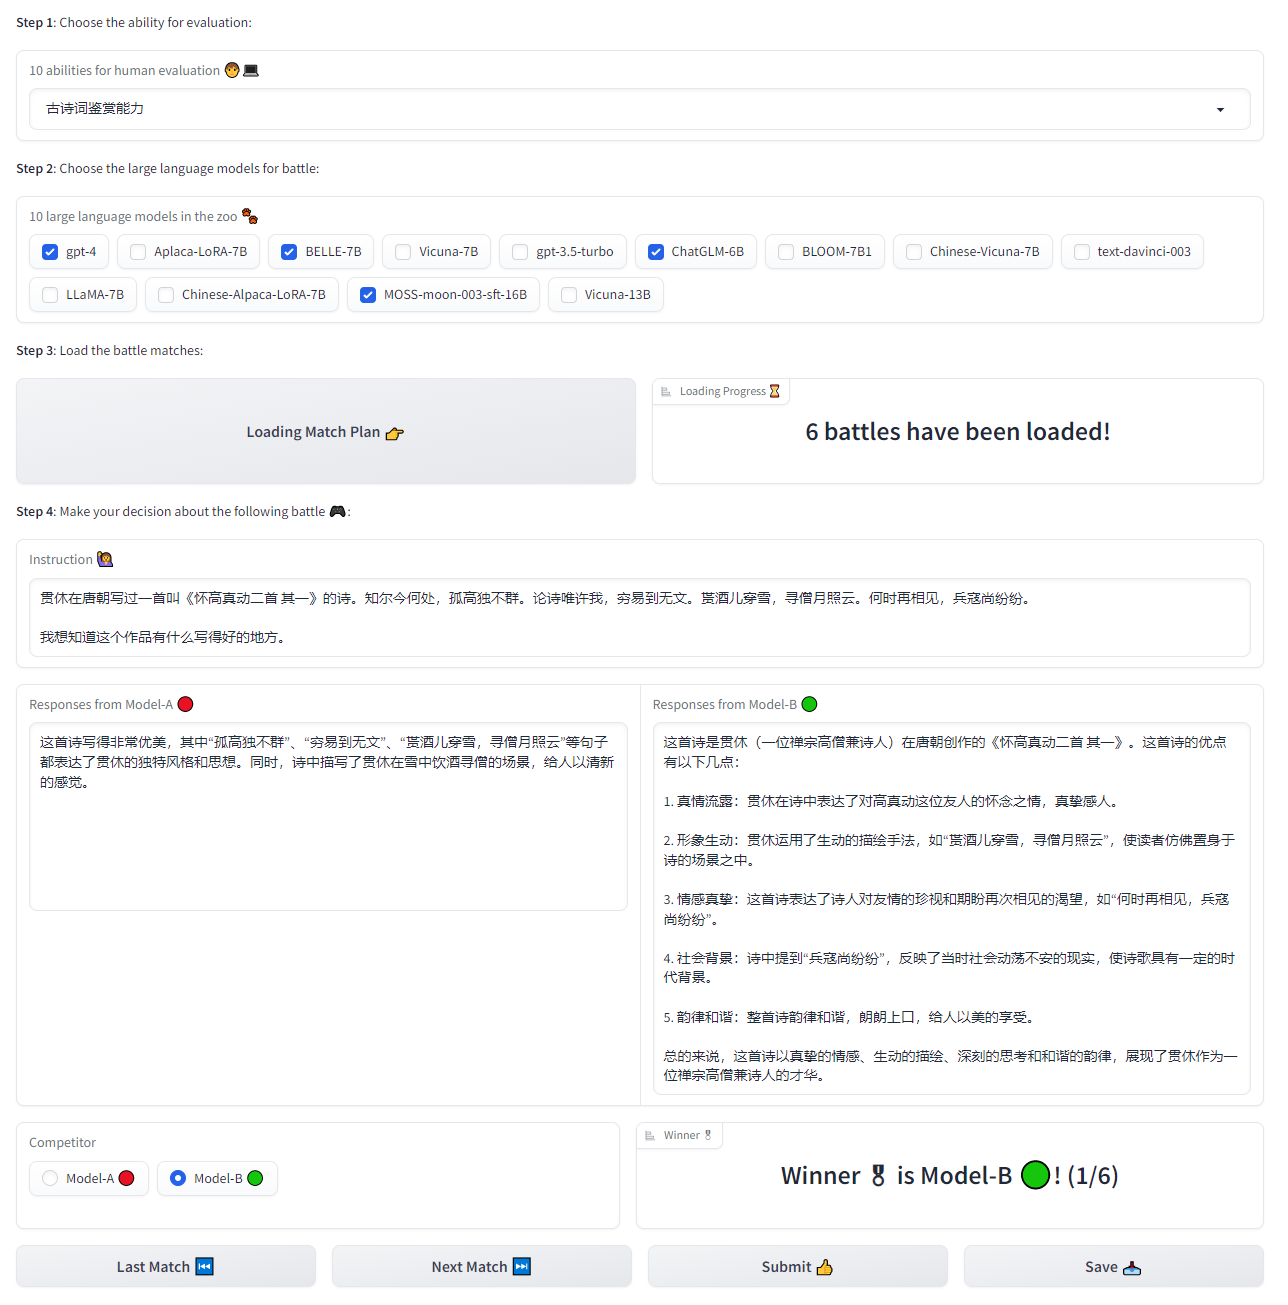
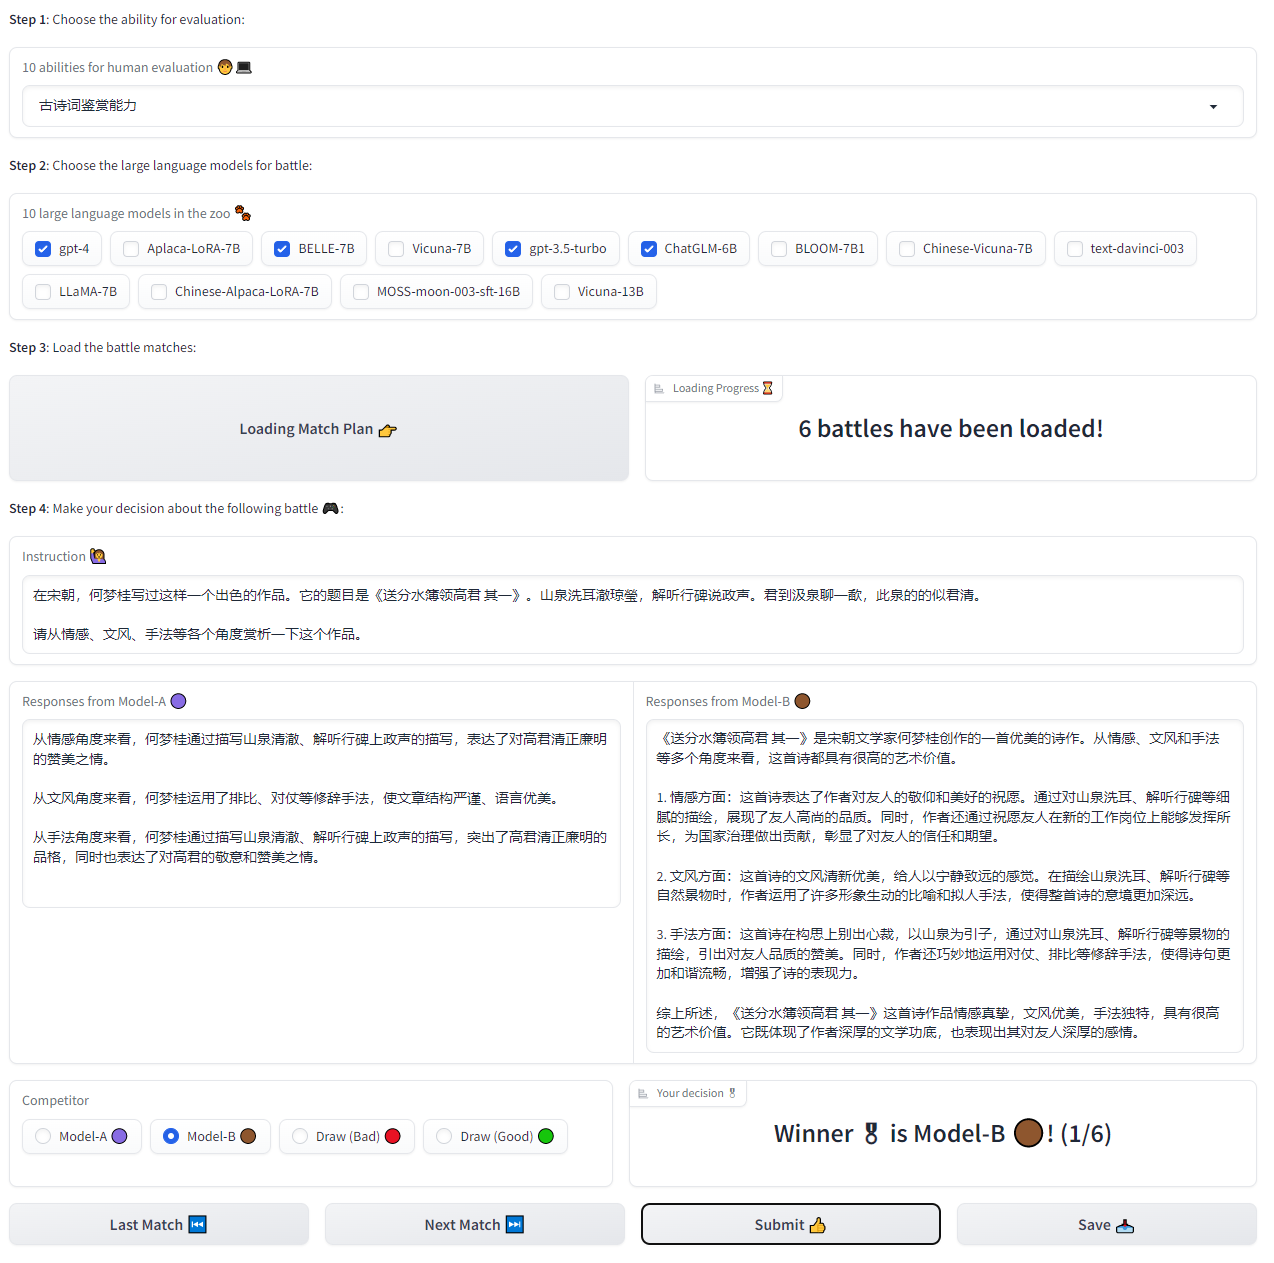
update webui

diff --git a/webui/arena.py b/webui/arena.py
@@ -20,11 +20,17 @@ class ArenaPlan():
                  inference_path: str='copywriting/data', 
                  dump_save_path: str='copywriting/analysis/arena', 
                  dump_recovery_path: str='copywriting/analysis/arena'):
-        self.matches = sample_trueskill(match_plan, ability, sample_num, inference_path, dump_save_path, dump_recovery_path)
+        self.matches = sample_trueskill(match_plan, 
+                                        ability, 
+                                        sample_num, 
+                                        inference_path, 
+                                        dump_save_path, 
+                                        dump_recovery_path)
         self.match_cnt = len(self.matches)
         self.annotating_head = 0
         self.show_head = 0
-        self.annotated_matches = []
+        self.annotated_matches = dict()
+        self.annotated_names = list()
         self.dump_save_path = dump_save_path
         self.ability = ability
 
@@ -37,13 +43,14 @@ class ArenaPlan():
             return game_name, instruct, model_a, model_b, None
         
     def _show_annotated_match(self, match_id: int):
-        match = self.annotated_matches[match_id]
-        for game_name, match_content in match.items():
-            instruct = match_content['instruction']
-            model_a = match_content['model-a']
-            model_b = match_content['model-b']
-            winner = match_content['winner']
-            return game_name, instruct, model_a, model_b, winner
+        game_name = self.annotated_names[match_id]
+        match = self.annotated_matches[game_name]
+
+        instruct = match['instruction']
+        model_a = match['model-a']
+        model_b = match['model-b']
+        winner = match['winner']
+        return game_name, instruct, model_a, model_b, winner
         
     def show_match(self, match_id: int =0):
         match_id = max(0, match_id)
@@ -67,11 +74,14 @@ class ArenaPlan():
         return self.show_match(self.show_head)
     
     def progress(self):
-        return f'{self.annotating_head}/{self.match_cnt}'
+        return f'{self.show_head+1}/{self.match_cnt}'
     
     def submit_match(self, match_result: dict):
         game_name = list(self.matches[self.show_head].keys())[0]
-        self.annotated_matches.append({game_name: match_result})
+        if game_name not in self.annotated_matches:
+            self.annotated_names.append(game_name)
+        self.annotated_matches[game_name] = match_result
+
         if self.show_head == self.annotating_head:
             self.annotating_head += 1
     
@@ -102,13 +112,13 @@ def submit(instruct, model_a, model_b, winner):
 
 def next_match():
     global arena_plan
-    game_name, instruct, model_a, model_b, winner = arena_plan.next_match()
-    return instruct, model_a, model_b, winner
+    _, instruct, model_a, model_b, winner = arena_plan.next_match()
+    return instruct, model_a, model_b, winner, _annotation_result(winner)
 
 def last_match():
     global arena_plan
-    game_name, instruct, model_a, model_b, winner = arena_plan.last_match()
-    return instruct, model_a, model_b, winner
+    _, instruct, model_a, model_b, winner = arena_plan.last_match()
+    return instruct, model_a, model_b, winner, _annotation_result(winner)
 
 def load_match(ability, llms):
     global arena_plan
@@ -120,13 +130,27 @@ def load_match(ability, llms):
     match_plan = full_combination_strategy(llms)
     print(match_plan)
     arena_plan = ArenaPlan(match_plan, ability_zh_en_map[ability])
-    game_name, instruct, model_a, model_b, winner = arena_plan.show_match()
+    _, instruct, model_a, model_b, winner = arena_plan.show_match()
 
-    return f'{len(match_plan)} battles have been loaded!', instruct, model_a, model_b, winner
+    return f'{len(match_plan)} battles have been loaded!', instruct, model_a, model_b, winner, _annotation_result(winner)
 
 def save_result():
     global arena_plan
     arena_plan.save_matches()
+
+def _annotation_result(winner):
+    global arena_plan
+    if winner:
+        if winner in ['Model-A 🟣', 'Model-B 🟤']:
+            return f'Winner 🎖 is {winner}! \n ({arena_plan.progress()})'
+        else:
+            if 'Bad' in winner:
+                performance = 'bad'
+            else:
+                performance = 'excellent'
+            return f'Their performance is {performance}! \n ({arena_plan.progress()})'
+    else:
+        return f'Make your decision! \n ({arena_plan.progress()})'
 
 def arena_two_model():
     with gr.Blocks(title=emoji.emojize('Arena :crossed_swords:')) as demo:
@@ -146,12 +170,12 @@ def arena_two_model():
         gr.Markdown('**Step 4**: Make your decision about the following battle 🎮:')
         instruction = gr.Textbox(label=emoji.emojize('Instruction :person_raising_hand:'))
         with gr.Row():
-            response_a = gr.Textbox(label='Responses from Model-A 🔴', lines=8)
-            response_b = gr.Textbox(label='Responses from Model-B 🟢', lines=8)
+            response_a = gr.Textbox(label='Responses from Model-A 🟣', lines=8)
+            response_b = gr.Textbox(label='Responses from Model-B 🟤', lines=8)
 
         with gr.Row():
-            radio = gr.Radio(['Model-A 🔴', 'Model-B 🟢'], label='Competitor')
-            result = gr.Label(label='Winner 🎖')
+            radio = gr.Radio(['Model-A 🟣', 'Model-B 🟤', 'Draw (Bad) 🔴', 'Draw (Good) 🟢'], label='Competitor')
+            result = gr.Label(label='Your decision 🎖')
 
         with gr.Row():
             last_btn = gr.Button(emoji.emojize('Last Match :last_track_button:'))
@@ -166,17 +190,17 @@ def arena_two_model():
         
         next_btn.click(fn=next_match, 
                        inputs=None, 
-                       outputs=[instruction, response_a, response_b, radio], 
+                       outputs=[instruction, response_a, response_b, radio, result], 
                        api_name='next')
         
         last_btn.click(fn=last_match, 
                        inputs=None, 
-                       outputs=[instruction, response_a, response_b, radio], 
+                       outputs=[instruction, response_a, response_b, radio, result], 
                        api_name='last')
         
         match_plan_btn.click(fn=load_match, 
                        inputs=[human_eval_abi, llm_pool], 
-                       outputs=[plan_progress, instruction, response_a, response_b, radio], 
+                       outputs=[plan_progress, instruction, response_a, response_b, radio, result], 
                        api_name='match_plan')
         
         save_btn.click(fn=save_result, 

diff --git a/plots/plot_annotation.py b/plots/plot_annotation.py
@@ -79,12 +79,12 @@ colors = list(map(lambda x: color(tuple(x)), ncolors(len(api_name_map))))
 api_color_map = dict(zip(list(api_name_map.values()), colors))
 
 llm_type_map = {
-    'LLaMA': ['Aplaca-LoRA-7B', 'Chinese-Alpaca-LoRA-7B', 'Chinese-Vicuna-7B', 'LLaMA-7B', 'Vicuna-7B', 'Vicuna-13B'],
-    'BLOOM': ['BELLE-7B', 'BLOOM-7B1'],
+    'LLaMA家族': ['Aplaca-LoRA-7B', 'Chinese-Alpaca-LoRA-7B', 'Chinese-Vicuna-7B', 'LLaMA-7B', 'Vicuna-7B', 'Vicuna-13B'],
+    'BLOOM家族': ['BELLE-7B', 'BLOOM-7B1'],
     'ChatGLM': ['ChatGLM-6B'],
     'CodeGen': ['MOSS-moon-003-sft-16B'],
-    'GPT': ['text-davinci-003', 'gpt-3.5-turbo', 'gpt-4'],
-    'Select': ['MOSS-moon-003-sft-16B', 'Vicuna-13B', 'BELLE-7B', 'ChatGLM-6B', 'gpt-4'],
+    'GPT家族': ['text-davinci-003', 'gpt-3.5-turbo', 'gpt-4'],
+    '代表模型': ['MOSS-moon-003-sft-16B', 'Vicuna-13B', 'BELLE-7B', 'ChatGLM-6B', 'gpt-4'],
     'RankRep': ['gpt-4', 'ChatGLM-6B', 'Vicuna-13B', 'Aplaca-LoRA-7B']
 }
 
@@ -361,8 +361,7 @@ def plot_ability_radar(annotated_file: str, save_fig_path: str, radar_name: str)
         plt.fill(angles, data, facecolor=api_color_map[api_name], alpha=0.02)
 
     ## show title
-    # plt.figtext(0.515, 0.95, attr, ha='center')
-    # plt.figtext(0.515, 0.95, 'Human Evaluation', ha='center')
+    plt.figtext(0.515, 0.95, radar_name, ha='center')
 
     plt.legend(loc='upper right', prop={'size': 7, 'family': 'DejaVu Sans'}, bbox_to_anchor=(1.3, 0.1))
     plt.grid(True)

diff --git a/copywriting/data_process.py b/copywriting/data_process.py
@@ -3,6 +3,7 @@ import json
 import pandas as pd
 from collections import OrderedDict
 from copywriting import get_logger
+from llm_api import api_name_map
 
 logger = get_logger(__name__, 'INFO')
 
@@ -43,22 +44,6 @@ def process_default_task(data_file: str) -> list:
         json.dump(poetry_instruction, fw, indent=4, ensure_ascii=False)
     
     return poetry_instruction
-
-api_name_map = {
-    'alpaca': 'Aplaca-LoRA-7B',
-    'belle': 'BELLE-7B',
-    'bloom': 'BLOOM-7B1',
-    'chatglm': 'ChatGLM-6B',
-    'chinese-alpaca': 'Chinese-Alpaca-LoRA-7B',
-    'chinese-vicuna': 'Chinese-Vicuna-7B',
-    'davinci': 'text-davinci-003',
-    'llama': 'LLaMA-7B',
-    'moss': 'MOSS-moon-003-sft-16B',
-    'turbo': 'gpt-3.5-turbo',
-    'vicuna': 'Vicuna-7B',
-    'vicuna-13b': 'Vicuna-13B',
-    'gpt4': 'gpt-4'
-}
 
 def _extract_human_eval(eval_item: dict) -> dict:
     user_utt = eval_item['messages'][0]['statements'][0]['utterance']

diff --git a/llm_api/README.md b/llm_api/README.md
@@ -22,5 +22,5 @@
 | [**gpt-4**](https://arxiv.org/pdf/2303.08774.pdf) | `gpt-4` <img src='../assets/icons/openai.svg' style='width:7%'/> | **GPT-4** | <font color=red>**FT**</font> | &#x2705; | &#x2705; | &#x2705; | &#x2705; | **OpenAI** |
 | [**MOSS-moon-003-sft-16B**](https://github.com/OpenLMLab/MOSS) | `fnlp/moss-moon-003-sft` &#x1F917; | **CodeGen-16B** | <font color=red>**FT**</font> | &#x2705; | &#x2705; | &#x2705; | &#x2705; | **Fudan University** |
 | [**gpt-3.5-turbo**](https://arxiv.org/pdf/2203.02155.pdf) | `gpt-3.5-turbo` <img src='../assets/icons/openai.svg' style='width:7%'/> | **GPT-3** | <font color=red>**FT**</font> | &#x2705; | &#x2705; | &#x2705; | &#x2705; | **OpenAI** |
-| [**Vicuna-7B**](https://lmsys.org/blog/2023-03-30-vicuna/) | `lmsys/vicuna-7b-delta-v1.1` &#x1F917; | **LLaMA-7B** | <font color=green>**LoRA**</font> | &#x274C; | &#x2705; | &#x2705; | &#x2705; | **UC Berkeley+** |
-| [**Vicuna-13B**](https://lmsys.org/blog/2023-03-30-vicuna/) | `lmsys/vicuna-13b-delta-v1.1` &#x1F917; | **LLaMA-13B** | <font color=green>**LoRA**</font> | &#x274C; | &#x2705; | &#x2705; | &#x2705; | **UC Berkeley+** |
+| [**Vicuna-7B**](https://lmsys.org/blog/2023-03-30-vicuna/) | `lmsys/vicuna-7b-delta-v1.1` &#x1F917; | **LLaMA-7B** | <font color=green>**LoRA**</font> | &#x2705; | &#x2705; | &#x2705; | &#x2705; | **UC Berkeley+** |
+| [**Vicuna-13B**](https://lmsys.org/blog/2023-03-30-vicuna/) | `lmsys/vicuna-13b-delta-v1.1` &#x1F917; | **LLaMA-13B** | <font color=green>**LoRA**</font> | &#x2705; | &#x2705; | &#x2705; | &#x2705; | **UC Berkeley+** |

diff --git a/README.md b/README.md
@@ -55,7 +55,7 @@ python analysis.py recovery \
 
 ### Plot figures:
 ```
-python analysis.py plot 
+python analysis.py plot \
  --type gaussian \
  --data_file copywriting/annotated_data/trueskill \
  --save_fig_path plots/figures/gaussian \
